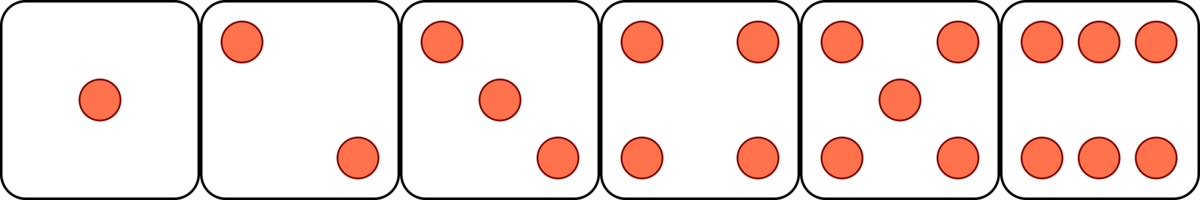
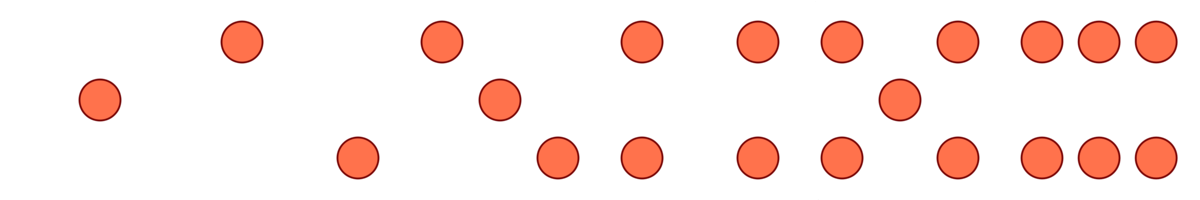
fix: RAND bug / Style: remove border of dice

Changed region(s): [[0.0, 0.0, 1.0, 1.0]]

diff --git a/script.js b/script.js
@@ -60,11 +60,10 @@ class Player{
 	WIN=false;
 
 	//Methods
-	roll(){
+	roll(RAND){
 		rollSound.currentTime =0;
 		rollSound.volume = 0.2;
 		rollSound.play();
-		let RAND = Math.floor(Math.random() * 6) +1;
 		dice.updateFace(RAND);
 		if(RAND === 1){
 			this.ROUND=0;
@@ -112,9 +111,10 @@ function debounceButton(button){
 
 //Roll Function
 function roll(){
+	let RAND = Math.floor(Math.random() * 6) +1;
 	debounceButton(rollButton);
 	canvas.classList.remove('rotate'); // unset the rotate class
-	activePlayer.roll();
+	activePlayer.roll(RAND);
 	if(activePlayer.ROUND ===0){
 		displayScore();
 		nextPlayer();

diff --git a/CSS/style.sass b/CSS/style.sass
@@ -184,7 +184,6 @@ $large_screen: "900px"
 	@include flexContainer(row,center,center)
 	@include textOption(4rem,300,uppercase,white)
 	border-radius: 1rem
-	box-shadow: $boxShadow
 	background: $red
 	z-index: 7
 	opacity: 0.95

diff --git a/CSS/style.css b/CSS/style.css
@@ -362,7 +362,6 @@ body {
   text-transform: uppercase;
   color: white;
   border-radius: 1rem;
-  box-shadow: 4px 1px 28px 5px rgba(191, 191, 191, 0.57);
   background: #d64541;
   z-index: 7;
   opacity: 0.95;
